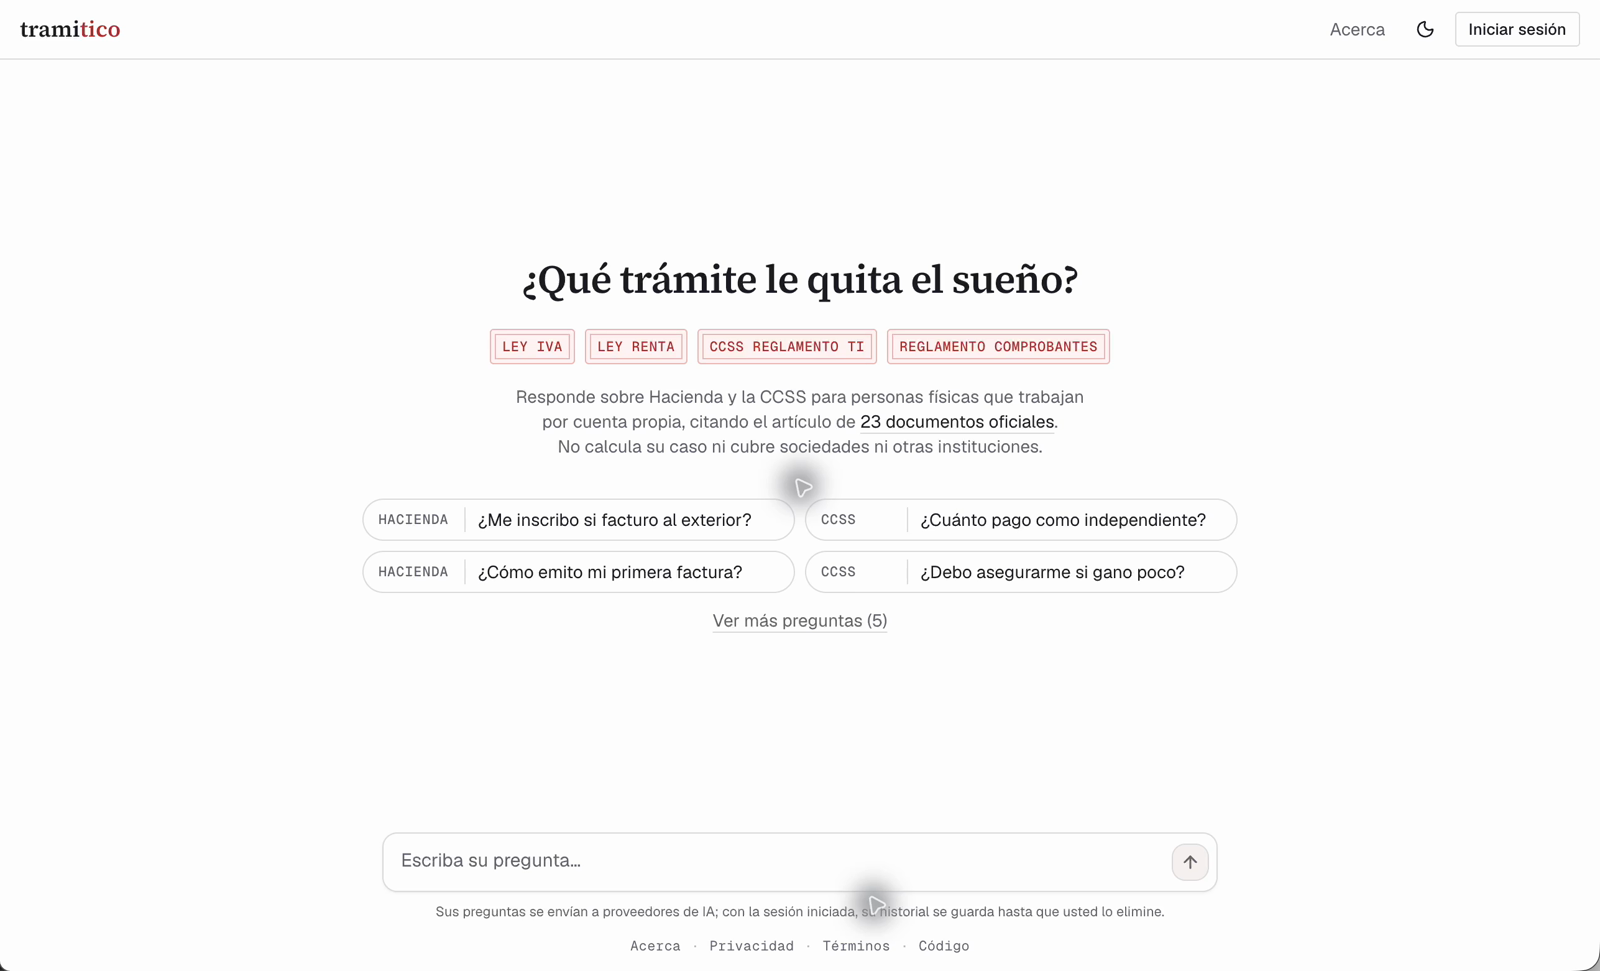
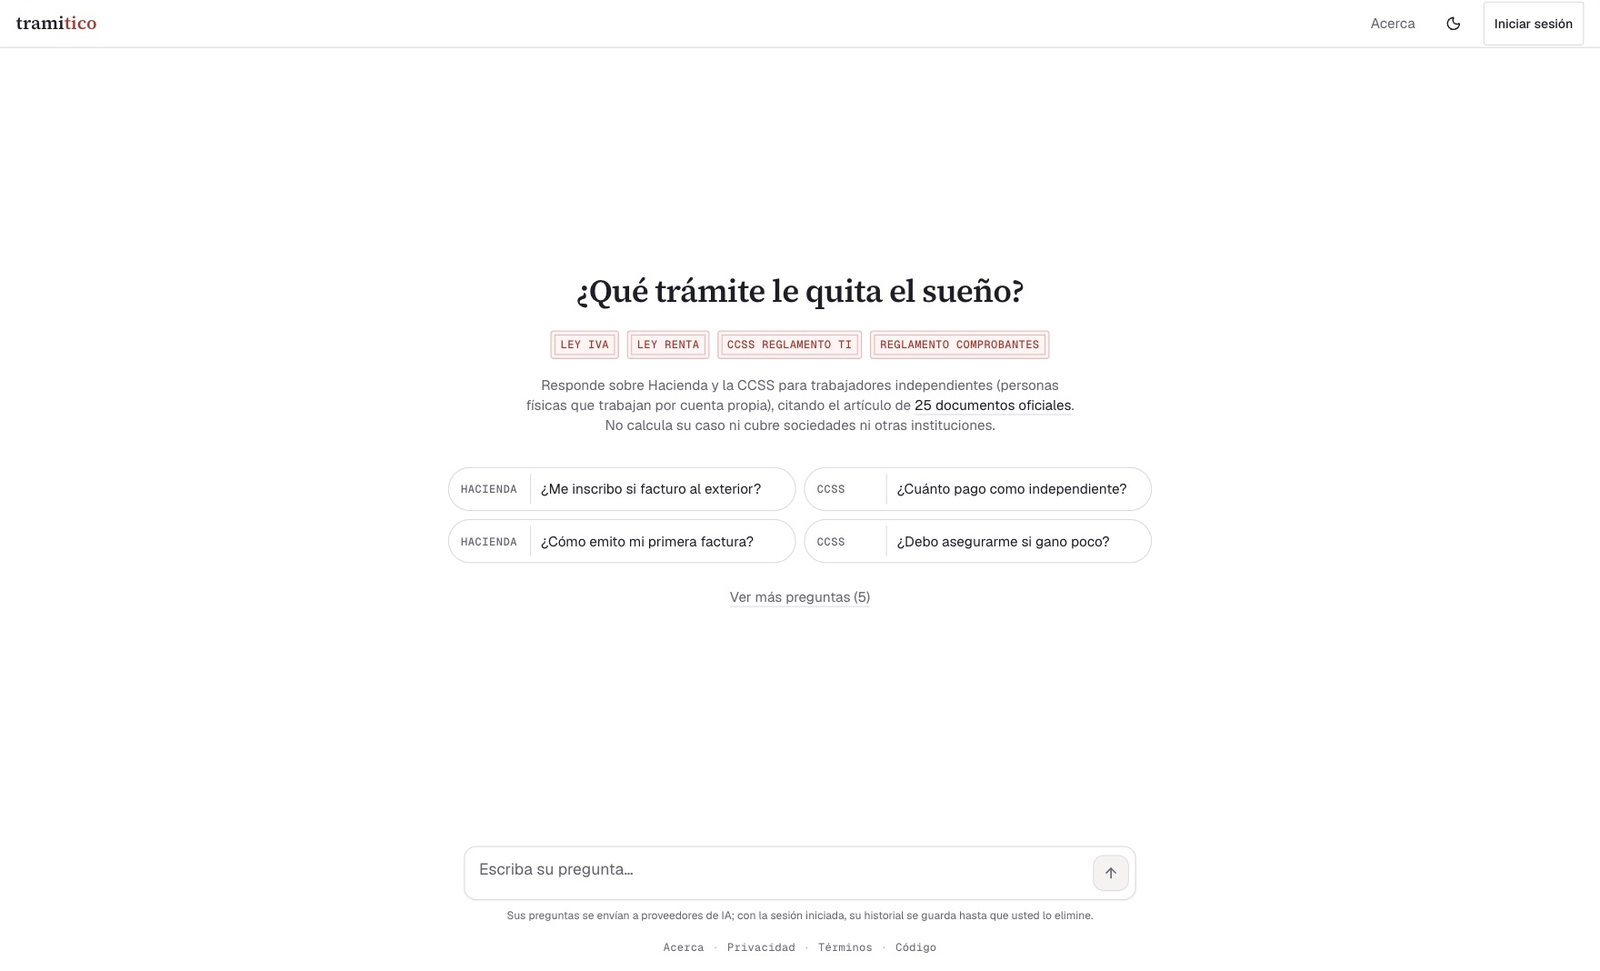
docs: refresh README captures for inline citation cards (#640)

diff --git a/README.md b/README.md
@@ -13,16 +13,16 @@ of _trámite_, the Costa Rican word for paperwork.
 
 **Live:** [tramitico.com](https://tramitico.com).
 
-![A Spanish CCSS question becomes a cited answer; focusing a source seal previews its document, and opening it shows the official article in a new tab.](docs/assets/demo.gif)
+![A Spanish CCSS question becomes a cited answer with inline seals and an official CCSS link; hovering a seal opens its source card, then the official article opens in a new tab.](docs/assets/demo.gif)
 
-<sub>Recorded on the live app on October 6, 2026, in an anonymous session. Processing waits, idle pauses and source-page loading are shortened; shortened waits are marked “Espera abreviada”. The answer reveal plays at normal speed.</sub>
+<sub>Recorded on the live app on October 31, 2026, in an anonymous session. Processing waits, idle pauses and source-page loading are shortened; shortened waits are marked “Espera abreviada”. The answer reveal plays at normal speed.</sub>
 
 <details>
 <summary>See the current interface</summary>
 
-![The landing page with institution-tagged questions, a floating composer and site links beneath it.](docs/assets/landing.png)
+![The light-theme landing page names 25 official documents and shows institution-tagged questions, a floating composer and site links beneath it.](docs/assets/landing.png)
 
-![A focused CCSS source seal previews the document title, regulation and article, alongside the source dates.](docs/assets/source-preview.png)
+![A clicked inline CCSS citation seal pins a source card with the document title, board resolution, article 10 and a link to open it on sinalevi.go.cr.](docs/assets/source-preview.png)
 
 </details>
 
@@ -40,7 +40,7 @@ of _trámite_, the Costa Rican word for paperwork.
   <details>
   <summary>Watch a question routed to Migración</summary>
 
-  ![A passport-renewal question in Spanish is declined and directed to Migración and its official URL.](docs/assets/demo-routed.gif)
+  ![A passport-renewal question in Spanish is declined and directed to Migración; the cursor hovers its official migracion.go.cr link with a Landmark icon.](docs/assets/demo-routed.gif)
 
   </details>
 
